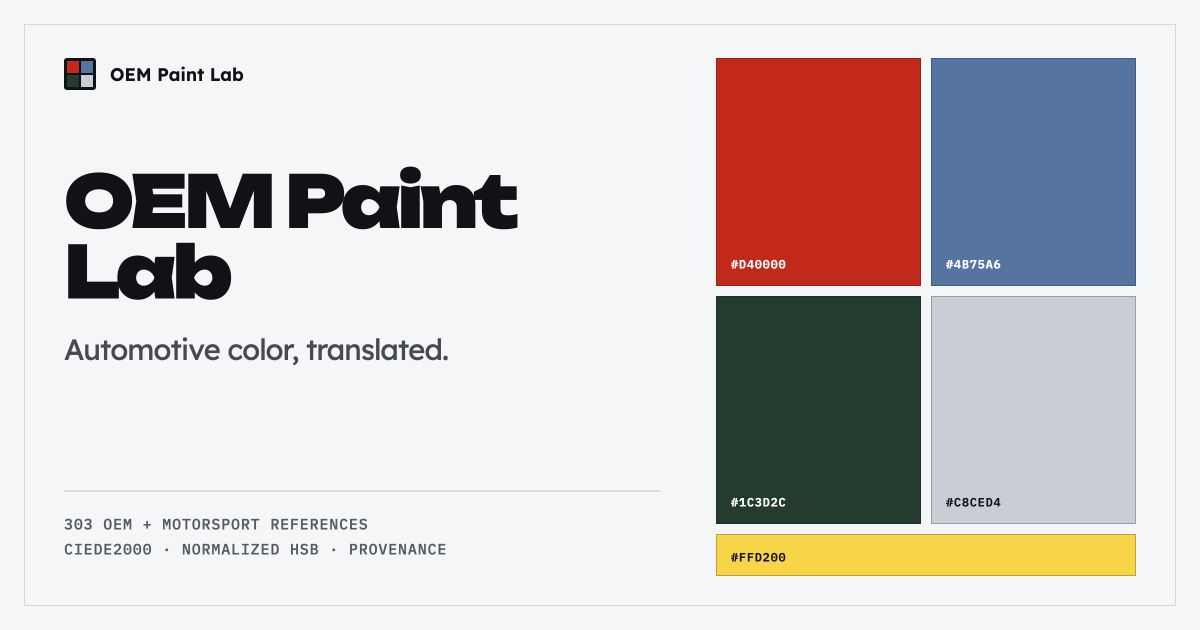
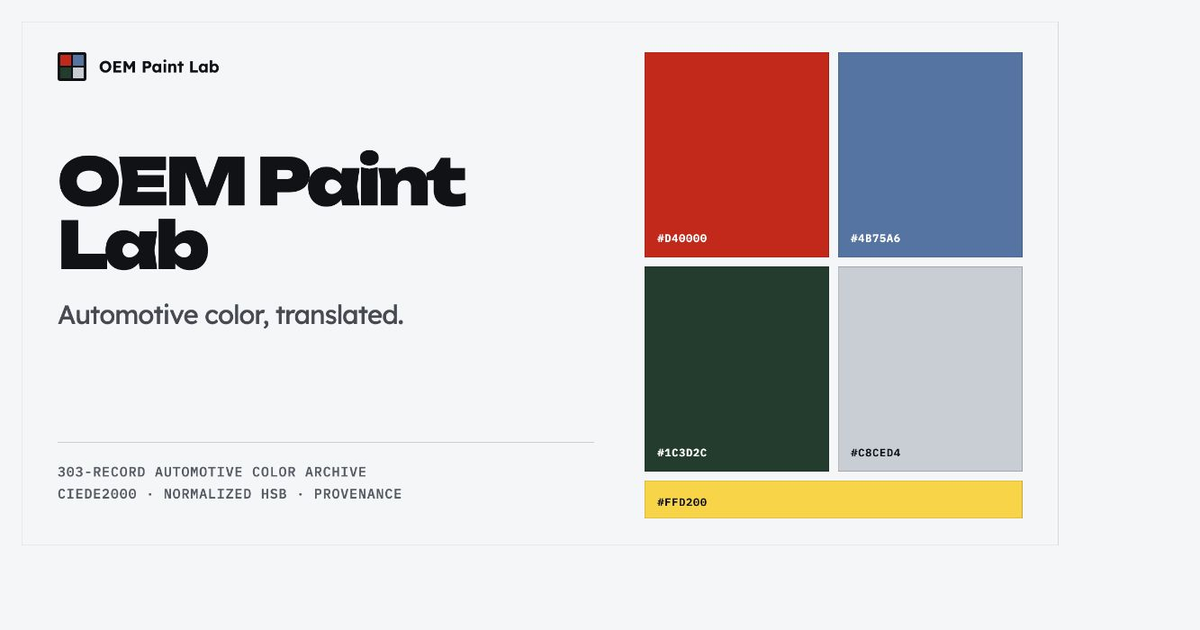
Correct archive wording and social preview

diff --git a/index.html b/index.html
@@ -8,7 +8,7 @@
     />
     <meta
       name="description"
-      content="Explore, compare, and analyze 303 OEM and motorsport color references with structured provenance, perceptual matching, and digital color tools."
+      content="Explore, compare, and analyze a 303-record automotive color archive with structured provenance, perceptual matching, and digital color tools."
     />
     <meta name="application-name" content="OEM Paint Lab" />
     <meta name="apple-mobile-web-app-title" content="OEM Paint Lab" />
@@ -29,7 +29,7 @@
     />
     <meta
       property="og:description"
-      content="Explore, compare, and analyze 303 OEM and motorsport color references with structured provenance, perceptual matching, and digital color tools."
+      content="Explore, compare, and analyze a 303-record automotive color archive with structured provenance, perceptual matching, and digital color tools."
     />
     <meta property="og:type" content="website" />
     <meta property="og:url" content="https://oem-paint-lab.vercel.app/" />
@@ -52,7 +52,7 @@
     />
     <meta
       name="twitter:description"
-      content="Explore, compare, and analyze 303 OEM and motorsport color references with structured provenance, perceptual matching, and digital color tools."
+      content="Explore, compare, and analyze a 303-record automotive color archive with structured provenance, perceptual matching, and digital color tools."
     />
     <meta
       name="twitter:image"

diff --git a/scripts/social-preview.html b/scripts/social-preview.html
@@ -159,7 +159,7 @@
         <h1>OEM Paint<br />Lab</h1>
         <p class="tagline">Automotive color, translated.</p>
         <p class="technical">
-          303 OEM + Motorsport references<br />
+          303-record automotive color archive<br />
           CIEDE2000 · Normalized HSB · Provenance
         </p>
       </section>
